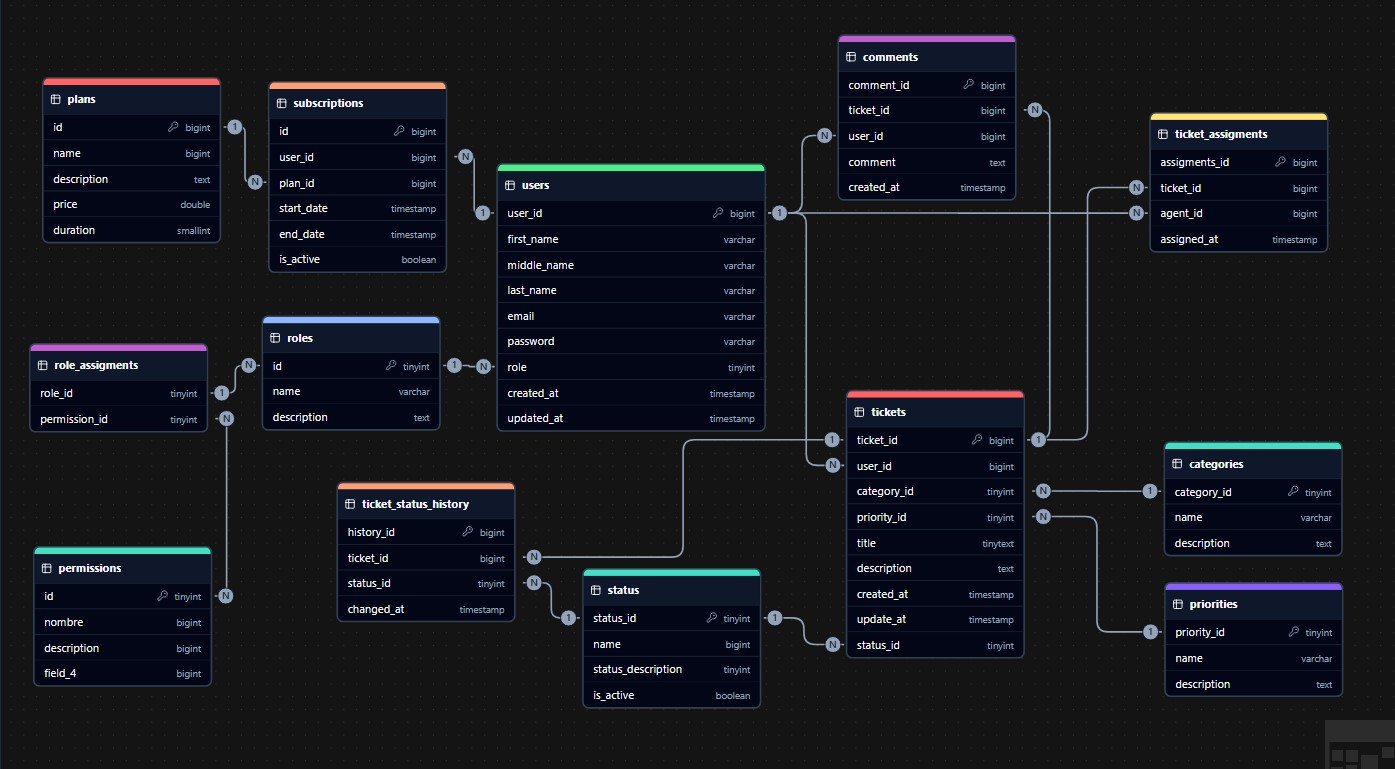
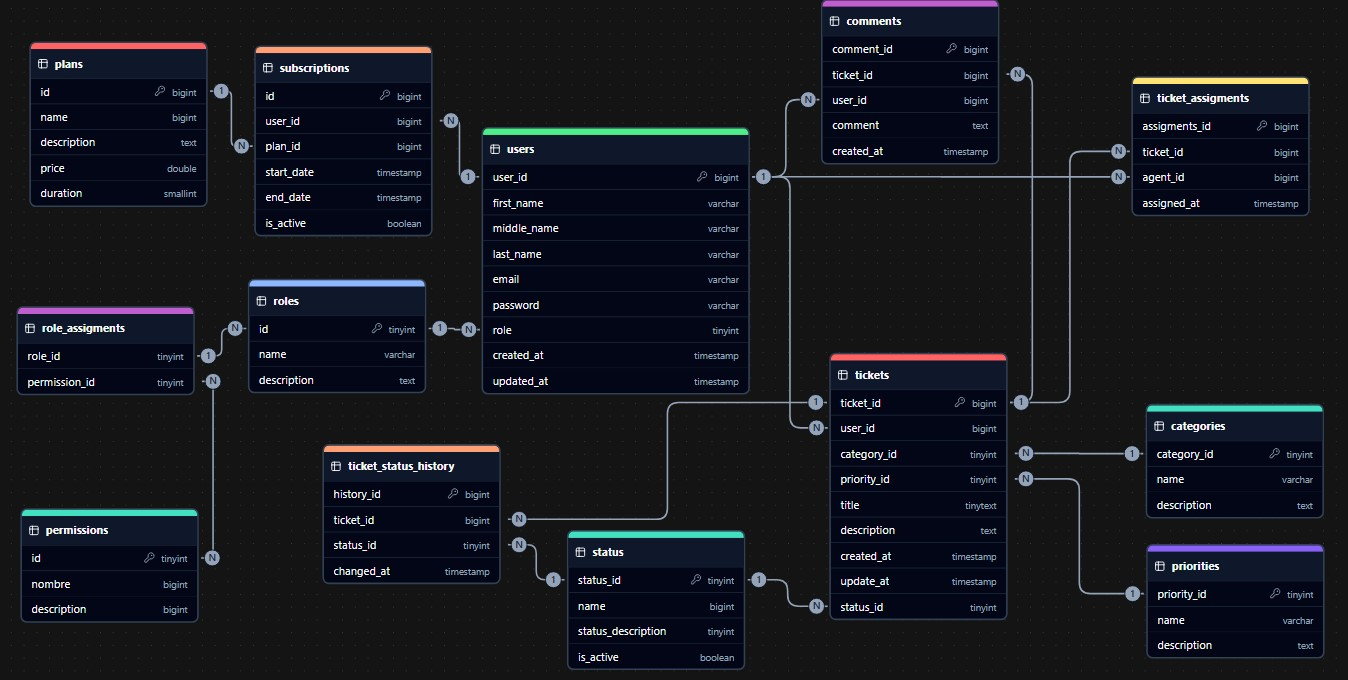
add permissions and data

Changed region(s): [[0.0, 0.0, 0.997, 0.9882]]

diff --git a/Backend/dataBase/Deskify/src/main/java/com/deskify/model/Permission.java b/Backend/dataBase/Deskify/src/main/java/com/deskify/model/Permission.java
@@ -1,0 +1,70 @@
+package com.deskify.model;
+
+import java.util.List;
+
+import jakarta.persistence.*;
+
+@Entity
+@Table(name = "permissions")
+public class Permission {
+
+    @Id
+    @GeneratedValue(strategy = GenerationType.IDENTITY)
+    @Column(name = "id")
+    private Long id;
+
+    @Column(name = "name", length = 55)
+    private String name;
+
+    @Column(name = "description", length = 255, columnDefinition = "TEXT")
+    private String description;
+
+    @ManyToMany(mappedBy = "permissions")
+    private List<Role> roles;
+
+    public Permission() {
+    }
+
+    public Permission(String name, String description) {
+        this.name = name;
+        this.description = description;
+    }
+
+    public Long getId() {
+        return id;
+    }
+
+    public void setId(Long id) {
+        this.id = id;
+    }
+
+    public String getName() {
+        return name;
+    }
+
+    public void setName(String name) {
+        this.name = name;
+    }
+
+    public String getDescription() {
+        return description;
+    }
+
+    public void setDescription(String description) {
+        this.description = description;
+    }
+
+    public List<Role> getRoles() {
+        return roles;
+    }
+
+    public void setRoles(List<Role> roles) {
+        this.roles = roles;
+    }
+
+    @Override
+    public String toString() {
+        return "Permission [id=" + id + ", name=" + name + ", description=" + description + ", roles=" + roles + "]";
+    }
+
+}

diff --git a/Backend/dataBase/Deskify/src/main/java/com/deskify/model/Role.java b/Backend/dataBase/Deskify/src/main/java/com/deskify/model/Role.java
@@ -1,5 +1,7 @@
 package com.deskify.model;
 
+import java.util.List;
+
 import jakarta.persistence.*;
 
 @Entity
@@ -16,6 +18,15 @@ public class Role {
 
     @Column(name = "description", length = 255, columnDefinition = "TEXT")
     private String description;
+
+    @ManyToMany
+    @JoinTable(
+        name = "role_permissions",
+        joinColumns = @JoinColumn(name = "role_id"),
+        inverseJoinColumns = @JoinColumn(name = "permission_id")
+    )
+    private List<Permission> permissions;
+
 
     public Role() {
     }
@@ -49,8 +60,19 @@ public class Role {
         this.description = description;
     }
 
+    public List<Permission> getPermissions() {
+        return permissions;
+    }
+
+    public void setPermissions(List<Permission> permissions) {
+        this.permissions = permissions;
+    }
+
     @Override
     public String toString() {
-        return "Role [id=" + id + ", name=" + name + ", description=" + description + "]";
+        return "Role [id=" + id + ", name=" + name + ", description=" + description + ", permissions=" + permissions
+                + "]";
     }
+
+    
 }

diff --git a/Backend/dataBase/Deskify/src/main/java/com/deskify/repository/PermissionRepository.java b/Backend/dataBase/Deskify/src/main/java/com/deskify/repository/PermissionRepository.java
@@ -1,0 +1,9 @@
+package com.deskify.repository;
+
+import org.springframework.data.jpa.repository.JpaRepository;
+
+import com.deskify.model.Permission;
+
+public interface PermissionRepository extends JpaRepository<Permission, Long> {
+
+}
